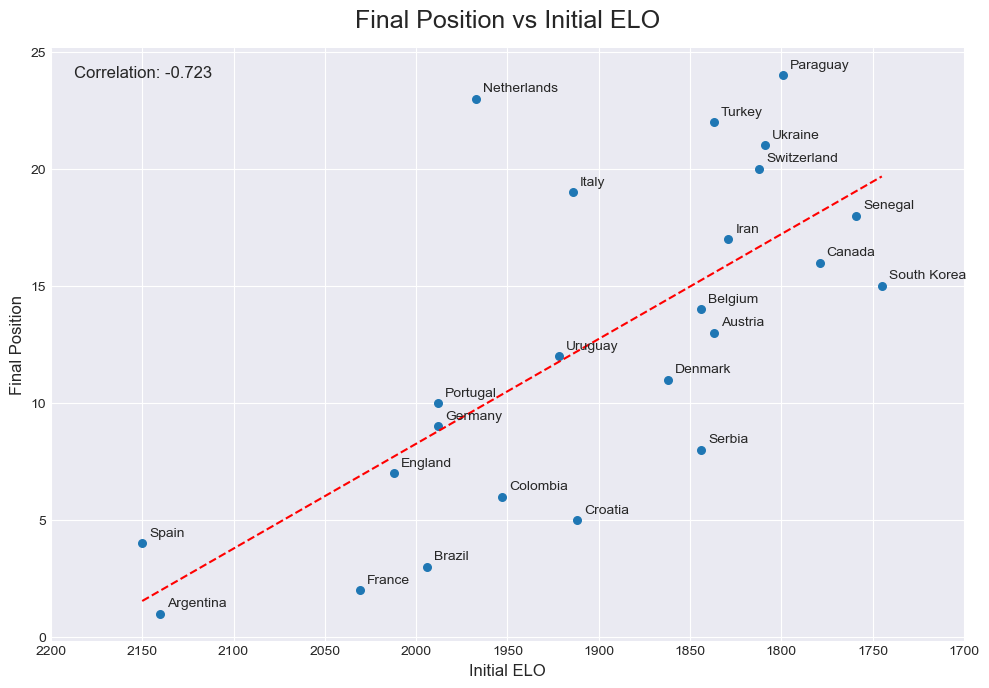
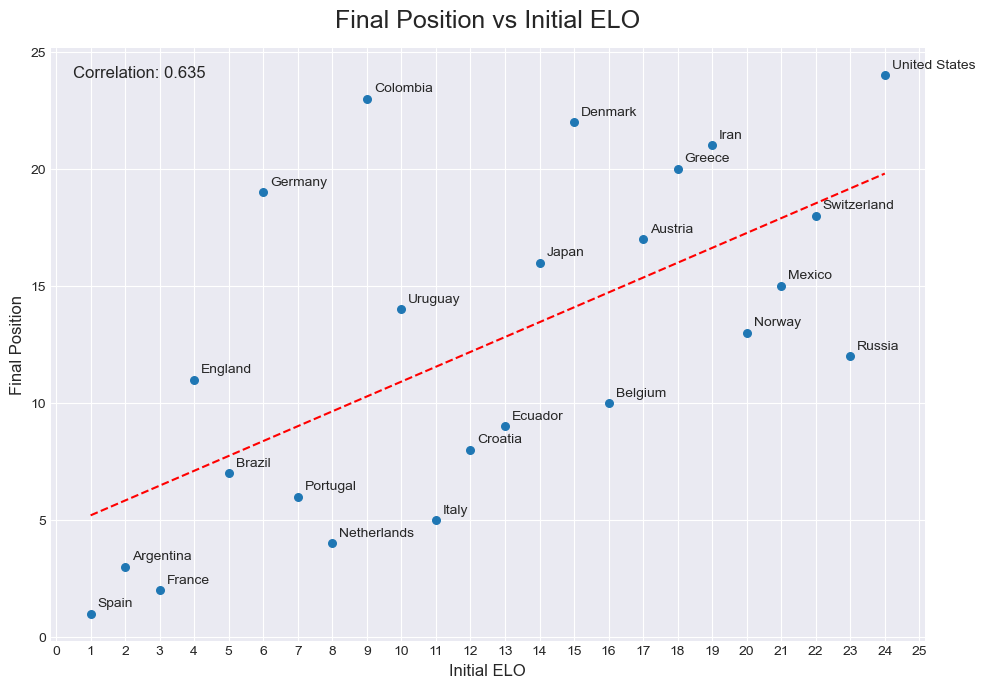
changed to elo rank

diff --git a/evaluators/elo_correlation.py b/evaluators/elo_correlation.py
@@ -74,18 +74,18 @@ class EloCorrelationEvaluator:
 
             # Scatter plot: Elo vs final position
             plt.figure(figsize = (10,7))
-            plt.scatter(merged_data['elo'], merged_data['position'], s = 30)
+            plt.scatter(merged_data['elo_rank'], merged_data['position'], s = 30)
 
             # Annotate each team
-            for _, row in merged_data.iterrows(): plt.annotate(row['team'], (row['elo'], row['position']), xytext = (5, 5), textcoords = 'offset points')
+            for _, row in merged_data.iterrows(): plt.annotate(row['team'], (row['elo_rank'], row['position']), xytext = (5, 5), textcoords = 'offset points')
 
             # Add linear trend line
-            z = np.polyfit(merged_data['elo'], merged_data['position'], 1)
+            z = np.polyfit(merged_data['elo_rank'], merged_data['position'], 1)
             p = np.poly1d(z)
-            plt.plot(merged_data['elo'], p(merged_data['elo']), "r--")
+            plt.plot(merged_data['elo_rank'], p(merged_data['elo_rank']), "r--")
 
             # Show correlation on plot
-            correlation = stats.spearmanr(merged_data['position'], merged_data['elo'])[0]
+            correlation = stats.spearmanr(merged_data['position'], merged_data['elo_rank'])[0]
             plt.annotate(f'Correlation: {correlation:.3f}', xy = (0.025, 0.950), xycoords = 'axes fraction', fontsize = 12)
 
             # Final plot formatting
@@ -93,10 +93,9 @@ class EloCorrelationEvaluator:
             plt.xlabel('Initial ELO', fontsize = 12)
             plt.ylabel('Final Position', fontsize = 12)
 
-            elo_min = merged_data['elo'].min()
-            elo_max = merged_data['elo'].max()
-            plt.xticks(np.arange(int(elo_min // 50 * 50), int(elo_max // 50 * 50) + 51, 50))
-            plt.gca().invert_xaxis()
+            elo_min = merged_data['elo_rank'].min()
+            elo_max = merged_data['elo_rank'].max()
+            plt.xticks(np.arange(0, elo_max + 2))
 
             pos_min = merged_data['position'].min()
             pos_max = merged_data['position'].max()

diff --git a/main.py b/main.py
@@ -91,7 +91,7 @@ def main():
     # Pure Playoff Format
     po_tournament = PlayoffTournament(load_teams_from_csv(), MatchEngine())
     po_tournament.run()
-    compute_metrics("Pure Play-off", po_tournament.get_rankings(), po_tournament, initial_elos, corr_eval, ic_eval)
+    compute_metrics("Pure Playoff", po_tournament.get_rankings(), po_tournament, initial_elos, corr_eval, ic_eval)
 
     # Swiss Format (8 rounds)
     swiss_tournament = SwissTournament(load_teams_from_csv(), MatchEngine(), rounds = 8)
